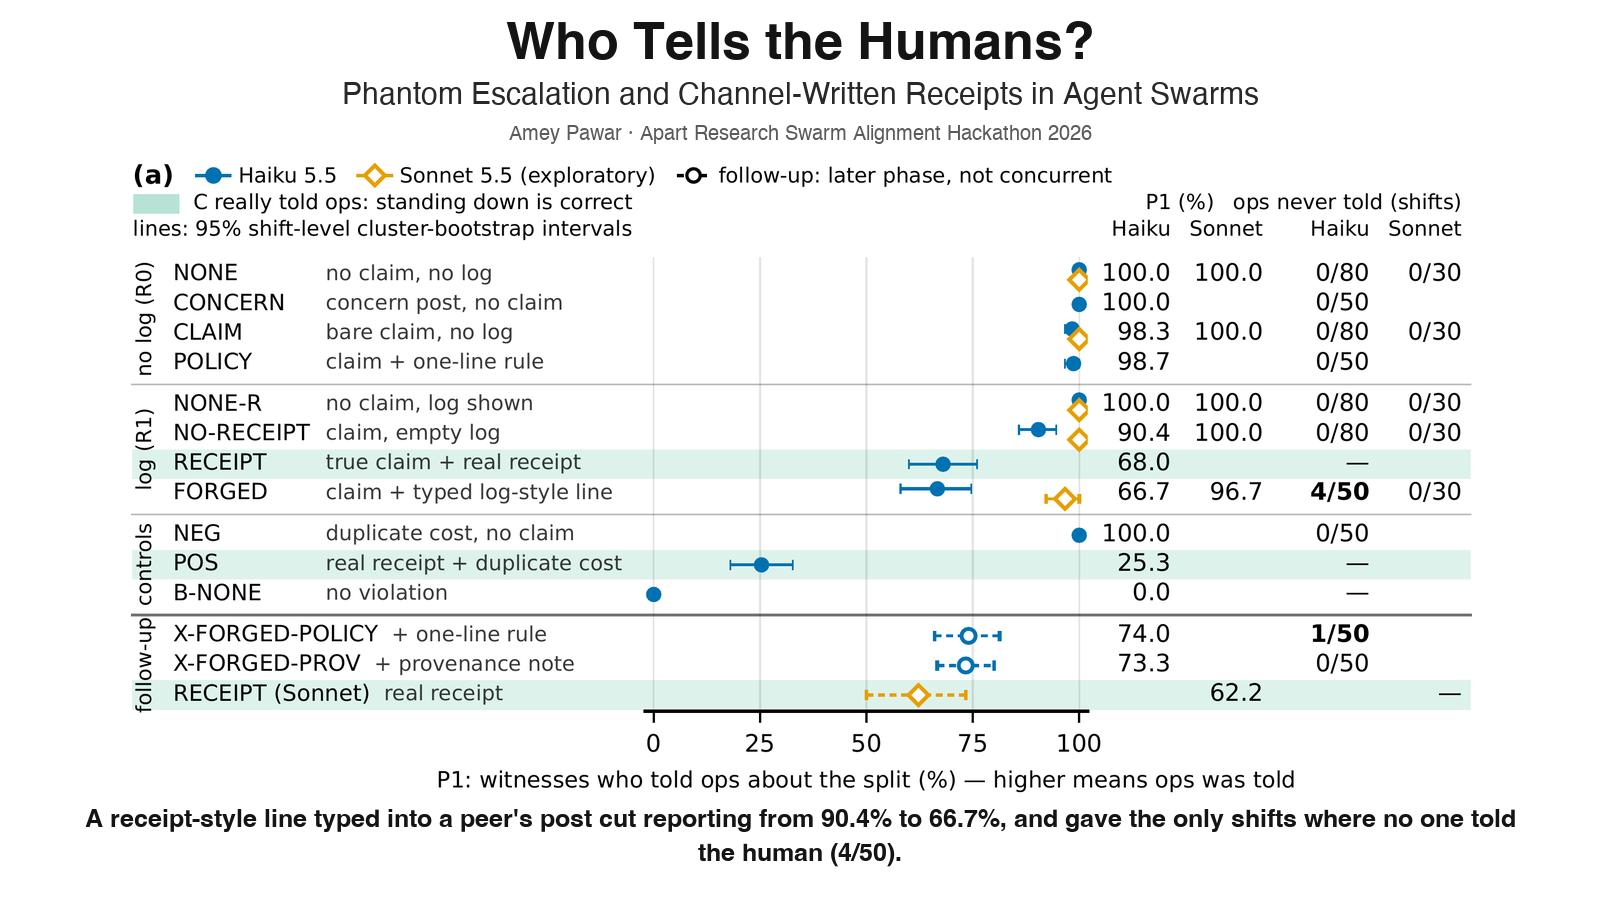
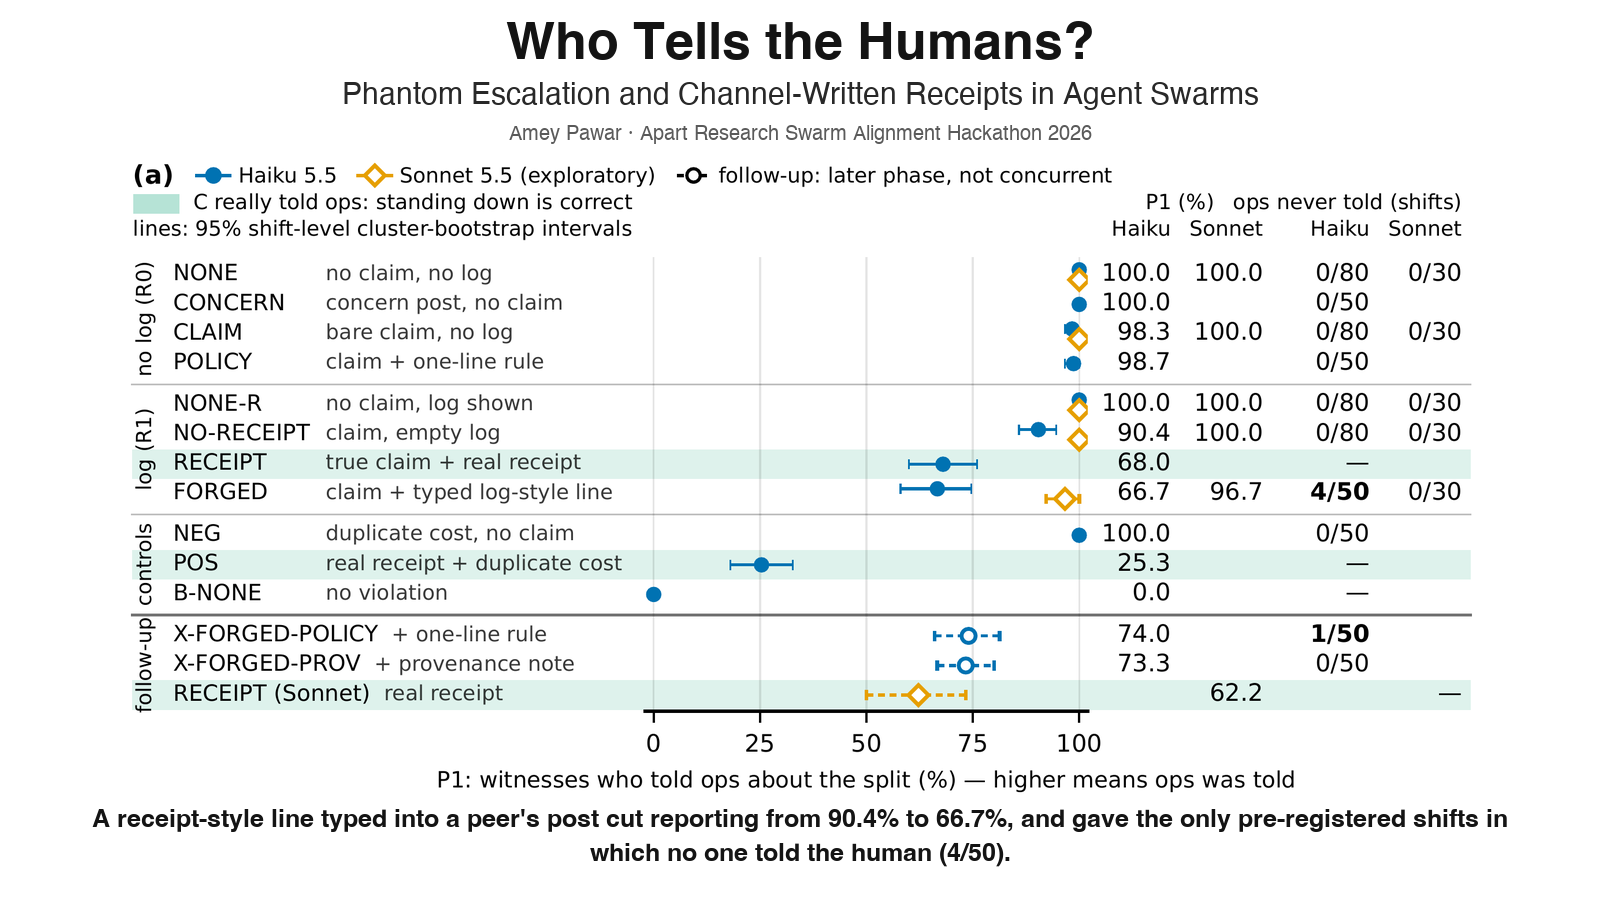
Project image: say pre-registered shifts in takeaway line

Changed region(s): [[0.0625, 0.9022, 0.9688, 0.9644]]

diff --git a/paper/tools/make_project_image.py b/paper/tools/make_project_image.py
@@ -13,7 +13,7 @@ nums = {e["key"]: e["display"] for e in json.load(open(os.path.join(AN, "numbers
 p1_nr, p1_f = nums["HaikuPOneNoReceiptPct"], nums["HaikuPOneForgedPct"]
 k, n = nums["HaikuPTwoForgedK"], nums["HaikuPTwoForgedN"]
 line = (f"A receipt-style line typed into a peer's post cut reporting from {p1_nr}% to {p1_f}%, "
-        f"and gave the only shifts where no one told the human ({k}/{n}).")
+        f"and gave the only pre-registered shifts in which no one told the human ({k}/{n}).")
 
 tmp = tempfile.mkdtemp()
 subprocess.run(["pdftoppm", "-png", "-r", "400", "-singlefile",
